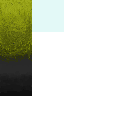
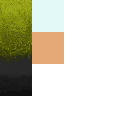
Got motion working, but it is not very responsive.

Changed region(s): [[0.25, 0.25, 0.5, 0.5]]

diff --git a/controller.py b/controller.py
@@ -15,7 +15,7 @@ class Keyboard(object):
                 if event.type == pygame.QUIT:
                     self.evManager.Post(QuitEvent())
                 #Keyboard
-                if event.type == pygame.KEYDOWN:
+                if event.type == pygame.KEYDOWN or event.type == pygame.KEYUP:
                     if event.key == pygame.K_ESCAPE:
                         self.evManager.Post(StateChangeEvent(None))
                     else:
@@ -38,9 +38,19 @@ class Keyboard(object):
             self.evManager.Post(StateChangeEvent(None))
 
     def keydownplay(self, event):
-        if event.key == pygame.K_ESCAPE:
-            self.evManager.Post(StateChangeEvent(None))
-        if event.key == pygame.K_F1:
-            self.evManager.Post(StateChangeEvent(model.STATE_HELP))
+        #Keydown events
+        if event.type == pygame.KEYDOWN:
+            if event.key == pygame.K_ESCAPE:
+                self.evManager.Post(StateChangeEvent(None))
+            elif event.key == pygame.K_F1:
+                self.evManager.Post(StateChangeEvent(model.STATE_HELP))
+            elif event.key == pygame.K_RIGHT:
+                self.evManager.Post(PlayerMoveEvent('right'))
+            elif event.key == pygame.K_LEFT:
+                self.evManager.Post(PlayerMoveEvent('left'))
+        #Keyup events
+        if event.type == pygame.KEYUP:
+            if event.key == pygame.K_RIGHT or event.key == pygame.K_LEFT:
+                self.evManager.Post(PlayerStopMovingEvent())
         else:
             self.evManager.Post(InputEvent(event.unicode, None))

diff --git a/view.py b/view.py
@@ -1,6 +1,6 @@
 import pygame
 import model
-from charactors import Player
+from charactors import Trent, Woman 
 from scenery import Decor
 from eventmanager import *
 
@@ -15,7 +15,6 @@ class GameScreen(object):
         self.smallfont = None
         self.backSprites = pygame.sprite.RenderUpdates()
         self.frontSprites = pygame.sprite.RenderUpdates()
-
 
     def notify(self, event):
         if isinstance(event, InitializeEvent):
@@ -49,7 +48,7 @@ class GameScreen(object):
         #here
         from maps import MAP, TILESET
         self.background = pygame.Surface(self.screen.get_size())
-        self.player = Player(self.frontSprites)
+        self.lady = Woman(self.frontSprites)
         self.tree = Decor(self.backSprites)
         #This should all happen in the map object that should be made
         for row in range(len(MAP)):
@@ -57,6 +56,8 @@ class GameScreen(object):
                 location = (col*32, row*32)
                 self.background.blit(TILESET, location, MAP[row][col])
         self.screen.blit(self.background, (0,0))
+        self.backSprites.clear(self.screen, self.background)
+        self.frontSprites.clear(self.screen, self.background)
         bsprites = self.backSprites.draw(self.screen)
         fsprites = self.frontSprites.draw(self.screen)
         pygame.display.flip()
@@ -79,3 +80,4 @@ class GameScreen(object):
         self.clock = pygame.time.Clock()
         self.smallfont = pygame.font.Font(None, 40)
         self.isinitialized = True
+        self.player = Trent(self.evManager, self.frontSprites)

diff --git a/charactors.py b/charactors.py
@@ -1,12 +1,37 @@
 import pygame
+from eventmanager import PlayerMoveEvent, PlayerStopMovingEvent, TickEvent
 
-class Player(pygame.sprite.Sprite):
+class Trent(pygame.sprite.Sprite):
+
+    def __init__(self, evManager, group=None):
+        pygame.sprite.Sprite.__init__(self, group)
+        self.evManager = evManager
+        evManager.RegisterListener(self)
+        self.image = pygame.image.load('images/trent.png')
+        self.image.convert_alpha()
+        self.x = 100
+        self.y = 256
+        self.rect = self.image.get_rect(x=self.x, y=self.y)
+        self.dx = 0
+
+    def notify(self, event):
+        if isinstance(event, TickEvent):
+            self.rect.x += self.dx
+        elif isinstance(event, PlayerMoveEvent):
+            if event.direction == 'right':
+                self.dx = 8
+            elif event.direction == 'left':
+                self.dx -= 8
+        elif isinstance(event, PlayerStopMovingEvent):
+            self.dx = 0
+
+class Woman(pygame.sprite.Sprite):
 
     def __init__(self, group=None):
         pygame.sprite.Sprite.__init__(self, group)
-        self.image = pygame.image.load('images/charactorsprite.png')
+        self.image = pygame.image.load('images/woman.png')
         self.image.convert_alpha()
-        self.x = 100
+        self.x = 500
         self.y = 256
         self.rect = self.image.get_rect(x=self.x, y=self.y)
 

diff --git a/eventmanager.py b/eventmanager.py
@@ -34,6 +34,26 @@ class StateChangeEvent(Event):
             return '%s pushed %s' % (self.name, self.state)
         else:
             return '%s popped' % self.name
+
+#######################################
+#
+#   Player motion
+#
+#######################################
+class PlayerMoveEvent(Event):
+    def __init__(self, direction):
+        self.name = "Player Move Event"
+        self.direction = direction
+
+class PlayerStopMovingEvent(Event):
+    def __init__(self):
+        self.name = "Player Stop Moving Event"
+
+#######################################
+#
+#    Event Manager
+#
+#######################################
 class EventManager(object):
     def __init__(self):
         from weakref import WeakKeyDictionary

diff --git a/maps.py b/maps.py
@@ -9,7 +9,7 @@ TILESET = pygame.image.load('images/tiles.png')
 
 g = pygame.Rect(0,0,  32,32)
 e = pygame.Rect(0,32, 32,32)
-s = pygame.Rect(32,0, 32,32)
+s = pygame.Rect(32,32, 32,32)
 d = pygame.Rect(0,64, 32,32)
 
 

diff --git a/model.py b/model.py
@@ -1,3 +1,4 @@
+from __future__ import print_function
 import pygame
 from eventmanager import *
 
